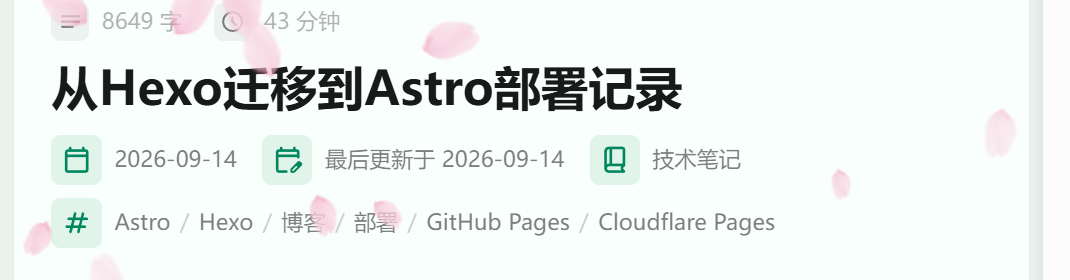
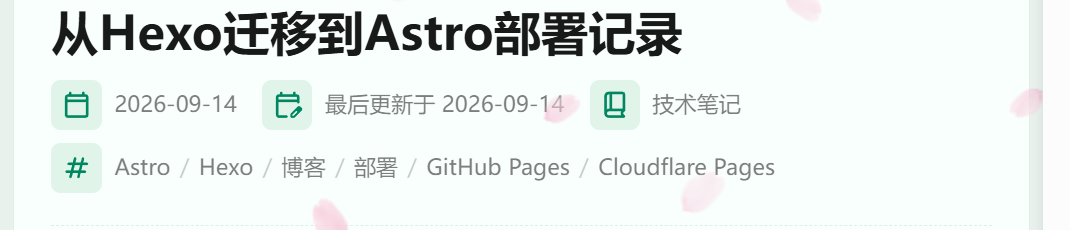
十三章修加粗（去掉引号防解析失败），配图截短

diff --git a/src/content/posts/从Hexo迁移到Astro部署记录.md b/src/content/posts/从Hexo迁移到Astro部署记录.md
@@ -878,7 +878,7 @@ npx wrangler pages deploy dist --project-name my-firefly-blog --branch main
 
 #### 十三、文章最后编辑时间
 
-文章页现在会显示两个时间：**发布时间**和**"最后更新于"**，都显示在标题下方的元信息区（同一行并排，图标区分）。
+文章页现在会显示两个时间：**发布时间**和**最后更新于**，都显示在标题下方的元信息区（同一行并排，图标区分）。
 
 ![文章开头：标题、字数、阅读时长、发布于 2026-09-14、最后更新于 2026-09-14、分类与标签](/assets/blog-migrate/updated-card.png)
 
